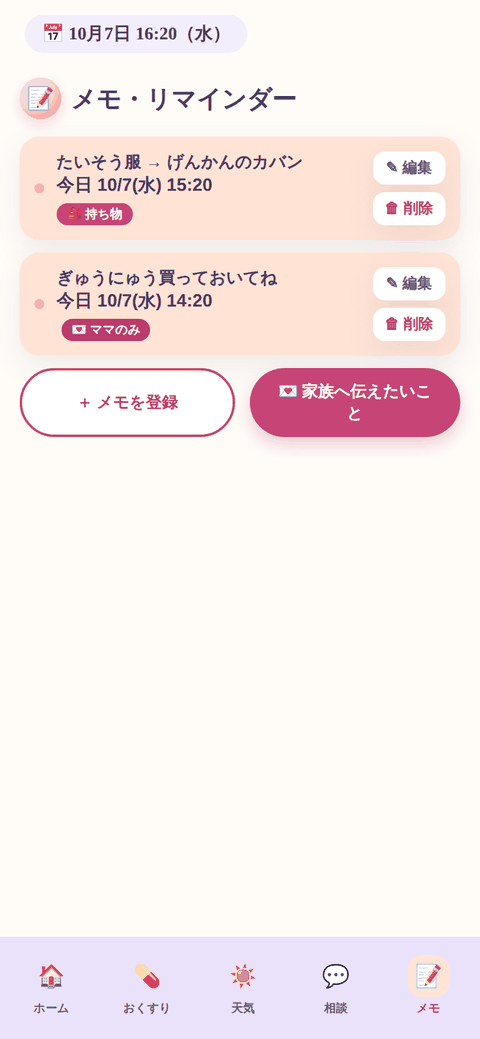
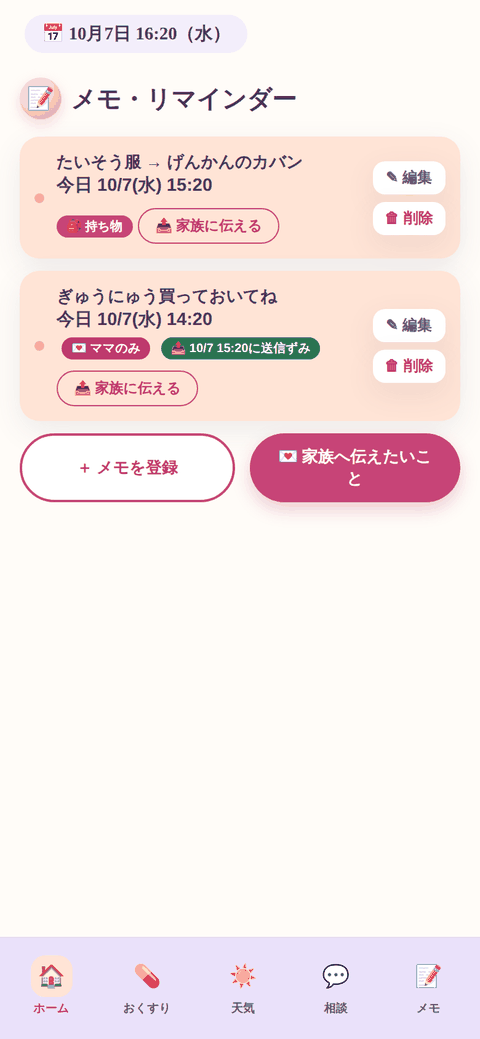
ガイドをビルド103版に更新する

diff --git a/index.html b/index.html
@@ -260,7 +260,7 @@
   <div class="hero-badge">🌸</div>
   <h1 class="title">まいにちサポート<br>つかいかたガイド</h1>
   <p class="lead">毎日をちょっと楽にする、家族みんなのためのアプリ。<br>迷ったときは、このページを見返してね。</p>
-  <div class="version-pill">📱 ビルド102版（2026年9月）</div>
+  <div class="version-pill">📱 ビルド103版（2026年9月）</div>
 </header>
 
 <div class="wrap">
@@ -276,6 +276,7 @@
   <a href="#renraku">📣 れんらく</a>
   <a href="#play">🏃 あそび許可</a>
   <a href="#memo">📝 メモ</a>
+  <a href="#tellfamily">📤 家族に伝える</a>
   <a href="#weather">☀ 天気</a>
   <a href="#outfit">👚 服装アドバイス</a>
   <a href="#med">💊 おくすり</a>
@@ -335,14 +336,15 @@
 </section>
 
 <section class="feature" id="reminder">
-  <div class="feature-shot"><img src="./img/app-reminder.png" width="480" height="1039" loading="lazy" alt="目立つお知らせの一覧"></div>
+  <div class="feature-shot two-up"><img src="./img/app-reminder.png" width="480" height="1039" loading="lazy" alt="目立つお知らせの一覧"><img src="./img/app-timepicker.png" width="480" height="1039" loading="lazy" alt="時間をえらぶ画面"></div>
   <div class="feature-body">
     <span class="feature-eyebrow"><span class="emoji">📢</span>目立つお知らせ</span>
     <h2 class="feature-power">決まった時間に、<br>画面いっぱいで。</h2>
     <p class="feature-desc">「16:30になったら、じゅんびの時間だよ」みたいに、決めた時刻になると<strong>画面いっぱい</strong>に出るお知らせだよ。アプリを閉じていても、端末の通知で教えてくれる。</p>
     <p class="feature-desc">曜日もえらべるから、「平日だけ」「土日だけ」もできるし、「◯月◯日の1回だけ」にすることもできるよ。1回だけのお知らせは、その日が過ぎると自動で片づくから、消し忘れの心配なし。</p>
     <p class="feature-desc">同じ画面の下のほうに、カレンダーの予定につけた通知もまとめて出るよ。「何がいつ鳴るのか」を1か所で確かめられる。</p>
-    <div class="tag-row"><span class="mini-tag">曜日をえらべる</span><span class="mini-tag">1回だけ</span><span class="mini-tag">予定の通知もまとめて見られる</span></div>
+    <p class="feature-desc">時間をえらぶところは、<strong>24時間ぐるぐる回る</strong>よ。23の下には0が続くから、夜おそくや朝はやくの時刻も、端まで戻さずにすぐえらべる。</p>
+    <div class="tag-row"><span class="mini-tag">曜日をえらべる</span><span class="mini-tag">1回だけ</span><span class="mini-tag">時刻は24時間まわる</span><span class="mini-tag">予定の通知もまとめて見られる</span></div>
   </div>
 </section>
 
@@ -394,10 +396,23 @@
     <p class="feature-desc">「＋メモを登録」は、自分だけが見るわすれものリストや記録用。日付をえらべるから、「あしたの持ち物」も先に書いておけるよ。</p>
     <p class="feature-desc">「💌家族へ伝えたいこと」は、送りさきをえらんで書くと、その人のLINEに通知が届くよ。写真やチェックリストも付けられる。</p>
     <p class="feature-desc">送りさきに出てくる名前は、おうちの人が⚙で決めた呼び名だよ（「ママ」「パパ」「おばあちゃん」など、おうちごとにちがうよ）。</p>
+    <p class="feature-desc">ふつうに登録したメモでも、あとから家族に送れるよ。<a href="#tellfamily">つぎの「📤 家族に伝える」</a>を見てね。</p>
   </div>
 </section>
 
-<section class="feature" id="weather">
+<section class="feature" id="tellfamily">
+  <div class="feature-shot"><img src="./img/app-memoshare.png" width="480" height="1039" loading="lazy" alt="家族に伝える画面"></div>
+  <div class="feature-body">
+    <span class="feature-eyebrow"><span class="emoji">📤</span>家族に伝える</span>
+    <h2 class="feature-power">あとから思い立っても、<br>送れる。</h2>
+    <p class="feature-desc">書いたメモの下にある「<strong>📤 家族に伝える</strong>」を押すと、そのメモをおうちの人のLINEに送れるよ。書いたときに送るか決めなくていいから、「やっぱり伝えておこう」と思ったときでも大丈夫。</p>
+    <p class="feature-desc">押すとこの画面が出て、<strong>送る内容と送りさきを確かめてから</strong>送れるよ。送れたら、そのメモに「📤 送信ずみ」と時刻が付く。</p>
+    <p class="feature-desc">同じメモをもう一度送りたいときは、もう一度押せばいいよ。そのときは「すでに送っています」と教えてくれて、確認してから送るようになっているから、まちがえて二重に届く心配はないよ。</p>
+    <div class="tag-row"><span class="mini-tag">あとから送れる</span><span class="mini-tag">送信ずみが残る</span><span class="mini-tag">もう一度も送れる</span></div>
+  </div>
+</section>
+
+<section class="feature rev" id="weather">
   <div class="feature-shot"><img src="./img/app-weather.png" width="480" height="1039" loading="lazy" alt="天気画面"></div>
   <div class="feature-body">
     <span class="feature-eyebrow"><span class="emoji">☀</span>天気</span>
@@ -407,7 +422,7 @@
   </div>
 </section>
 
-<section class="feature rev" id="outfit">
+<section class="feature" id="outfit">
   <div class="feature-shot"><img src="./img/app-outfit.png" width="480" height="1039" loading="lazy" alt="服装アドバイス画面"></div>
   <div class="feature-body">
     <span class="feature-eyebrow"><span class="emoji">👚</span>服装アドバイス</span>
@@ -416,7 +431,7 @@
   </div>
 </section>
 
-<section class="feature" id="med">
+<section class="feature rev" id="med">
   <div class="feature-shot two-up"><img src="./img/app-med.png" width="480" height="1039" loading="lazy" alt="おくすり画面"><img src="./img/app-medsample.png" width="480" height="1039" loading="lazy" alt="例から作る"></div>
   <div class="feature-body">
     <span class="feature-eyebrow"><span class="emoji">💊</span>おくすり</span>
@@ -427,7 +442,7 @@
   </div>
 </section>
 
-<section class="feature rev" id="export">
+<section class="feature" id="export">
   <div class="feature-shot"><img src="./img/app-export.png" width="480" height="1039" loading="lazy" alt="ふりかえりを送るモーダル"></div>
   <div class="feature-body">
     <span class="feature-eyebrow"><span class="emoji">📤</span>ふりかえり</span>
@@ -436,7 +451,7 @@
   </div>
 </section>
 
-<section class="feature" id="profile">
+<section class="feature rev" id="profile">
   <div class="feature-shot"><img src="./img/app-profile.png" width="480" height="1039" loading="lazy" alt="名前とアイコン設定モーダル"></div>
   <div class="feature-body">
     <span class="feature-eyebrow"><span class="emoji">⚙</span>名前とアイコン</span>
@@ -461,7 +476,7 @@
   <div class="thanks">これからも、少しずつ育てていくよ 🌱</div>
   <p>使っていて「こうだったらいいな」があったら、いつでも教えてね。<br>このガイドも、アプリのアップデートに合わせて更新していきます。</p>
   <p class="outro-links"><a href="./setup-index.html">はじめての設定ガイド</a> ／ <a href="./privacy.html">プライバシーポリシー</a></p>
-  <p style="margin-top:18px; font-size:12px; opacity:.75;">つかいかたガイド ビルド102版 ／ 2026年9月16日</p>
+  <p style="margin-top:18px; font-size:12px; opacity:.75;">つかいかたガイド ビルド103版 ／ 2026年9月16日</p>
 </footer>
 
 

diff --git a/child-setup-guide.html b/child-setup-guide.html
@@ -201,6 +201,8 @@
   ひとり親のご家庭や、祖父母の方と暮らしているご家庭でも、そのまま使えます。「ママ」「パパ」に固定されていません。
 </div>
 
+<p>ここで決めた呼び名は、お子さんが<strong>あとからメモを送るとき</strong>にも出てきます。ふつうに登録したメモの下に「📤 家族に伝える」があり、書いたあとで思い立っても送れます（送ったメモには「📤 送信ずみ」と時刻が残ります）。</p>
+
 <div class="note">
   <strong>LINE側の登録は別です。</strong>呼び名をここで変えても、LINEに通知が届く相手は変わりません。
   届く相手は、第1部・手順2の最後に <strong>LINEで「おとうさん」「おかあさん」と送って登録した人</strong>です。
@@ -242,6 +244,10 @@
   <img src="./img/app-reminderform.png" width="480" height="1039" loading="lazy" alt="目立つお知らせの追加">
   <figcaption>アイコン・言葉・時刻・くりかえす曜日を決めます。</figcaption>
 </figure>
+
+<div class="note">
+  時間をえらぶところは<strong>24時間ぐるぐる回ります</strong>。23の下には0が続くので、夜おそくや朝はやくの時刻も、リストの端まで戻さずにえらべます。
+</div>
 
 <div class="step">
   <p style="margin:0 0 6px;"><strong>くりかえし方は2種類</strong></p>
@@ -374,7 +380,7 @@
 <footer>
   <p>うまくいかないところがあれば、途中で構いませんので開発者までご連絡ください。<br>
   まいにちサポート ／ <a href="./setup-index.html">設定ガイドの目次へ</a> ／ <a href="./">つかいかたガイド</a> ／ <a href="./privacy.html">プライバシーポリシー</a></p>
-  <p style="font-size:12px; opacity:.75;">設定ガイド 第2部 ／ ビルド102版 ／ 2026年9月16日</p>
+  <p style="font-size:12px; opacity:.75;">設定ガイド 第2部 ／ ビルド103版 ／ 2026年9月16日</p>
 </footer>
 
 

diff --git a/setup-index.html b/setup-index.html
@@ -192,7 +192,7 @@
 <footer>
   <p>うまくいかないところがあれば、途中で構いませんので開発者までご連絡ください。<br>
   まいにちサポート ／ <a href="./">つかいかたガイドへ</a> ／ <a href="./privacy.html">プライバシーポリシー</a></p>
-  <p style="font-size:12px; opacity:.75;">設定ガイド 目次 ／ ビルド102版 ／ 2026年9月16日</p>
+  <p style="font-size:12px; opacity:.75;">設定ガイド 目次 ／ ビルド103版 ／ 2026年9月16日</p>
 </footer>
 
 
